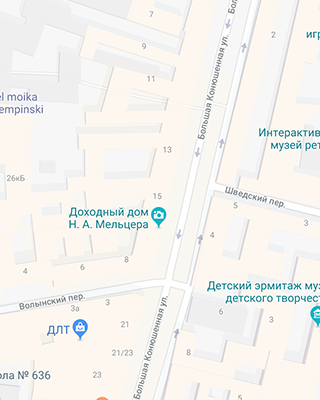
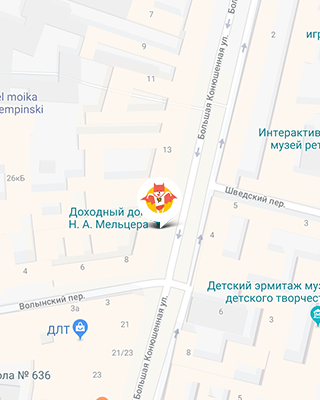
Прописала основные стили контактов и карты

Changed region(s): [[0.4375, 0.45, 0.5625, 0.57]]

diff --git a/source/index.html b/source/index.html
@@ -105,7 +105,6 @@
               <img class="illustration__image illustration__image--after" src="img/after-mobile@1x.png" width="311" height="232" alt="Изображение стройного кота на нашем питании">
             </li>
           </ul>
-
           <div class="illustration__toggles illustration-toggles">
             <button class="illustration-toggles__button illustration-toggles__button--left">Было</button>
             <div class="illustration-toggles__bar">
@@ -117,13 +116,13 @@
       </section>
       <div class="page-main__bottom-wrapper bottom-wrapper">
         <section class="bottom-wrapper__contacts contacts">
-          <h2 class="contacts__title">приглашаем к сотрудничеству дилеров!</h2>
+          <h2 class="contacts__title">приглашаем<br> к сотрудничеству дилеров!</h2>
           <address class="contacts__address">
             ул. Большая Конюшенная, д. 19/8 Санкт-Петербург
           </address>
         </section>
         <div class="bottom-wrapper__map map">
-          <img class="map__image" src="img/map.jpg" width="320" height="400" alt="Наш адрес: ул. Большая Конюшенная, д. 19/8 Санкт-Петербург">
+          <img class="map__image" src="img/bg-map-mobile@1x.png" width="320" height="400" alt="Наш адрес: ул. Большая Конюшенная, д. 19/8 Санкт-Петербург">
         </div>
       </div>
     </main>

diff --git a/source/catalog.html b/source/catalog.html
@@ -8,7 +8,7 @@
   <body>
     <header class="page-header container">
       <div class="page-header__wrapper">
-        <a class="logo page-header__logo">
+        <a class="logo page-header__logo" href="index.html">
           <img class="page-header__logo-image" src="img/logo-mobile.svg" width="191" height="39" alt="Логотип Кэт энерджи">
         </a>
         <button class="main-nav__toggle" type="button">Открыть меню</button>

diff --git a/source/form.html b/source/form.html
@@ -8,7 +8,7 @@
   <body>
     <header class="page-header container">
       <div class="page-header__wrapper">
-        <a class="logo page-header__logo">
+        <a class="logo page-header__logo" href="index.html">
           <img class="page-header__logo-image" src="img/logo-mobile.svg" width="191" height="39" alt="Логотип Кэт энерджи">
         </a>
         <button class="main-nav__toggle" type="button">Открыть меню</button>

diff --git a/source/less/blocks/contacts.less b/source/less/blocks/contacts.less
@@ -1,0 +1,22 @@
+.contacts {
+  display: flex;
+  justify-content: space-between;
+  align-items: center;
+  padding: 25px 20px;
+}
+
+.contacts__title {
+  width: 320px;
+  font-size: 16px;
+  line-height: 20px;
+  font-weight: 400;
+  text-transform: uppercase;
+}
+
+.contacts__address {
+  width: 320px;
+  font-family: @font-text;
+  .text-typeface();
+  line-height: 20px;
+  font-style: normal;
+}

diff --git a/source/less/style.less b/source/less/style.less
@@ -15,3 +15,7 @@
 @import "blocks/index-blocks/illustration.less";
 @import "blocks/index-blocks/numbers.less";
 @import "blocks/index-blocks/expenses.less";
+@import "blocks/page-main.less";
+@import "blocks/contacts.less";
+@import "blocks/map.less";
+@import "blocks/footer/page-footer.less";

diff --git a/source/less/blocks/footer/page-footer.less b/source/less/blocks/footer/page-footer.less
@@ -1,0 +1,4 @@
+.page-footer {
+  padding: 39px 20px 22px 20px;
+  background-color: @grey-color;
+}

diff --git a/source/less/blocks/map.less b/source/less/blocks/map.less
@@ -1,0 +1,4 @@
+.map__image {
+  width: 320px;
+  height: 400px;
+}
